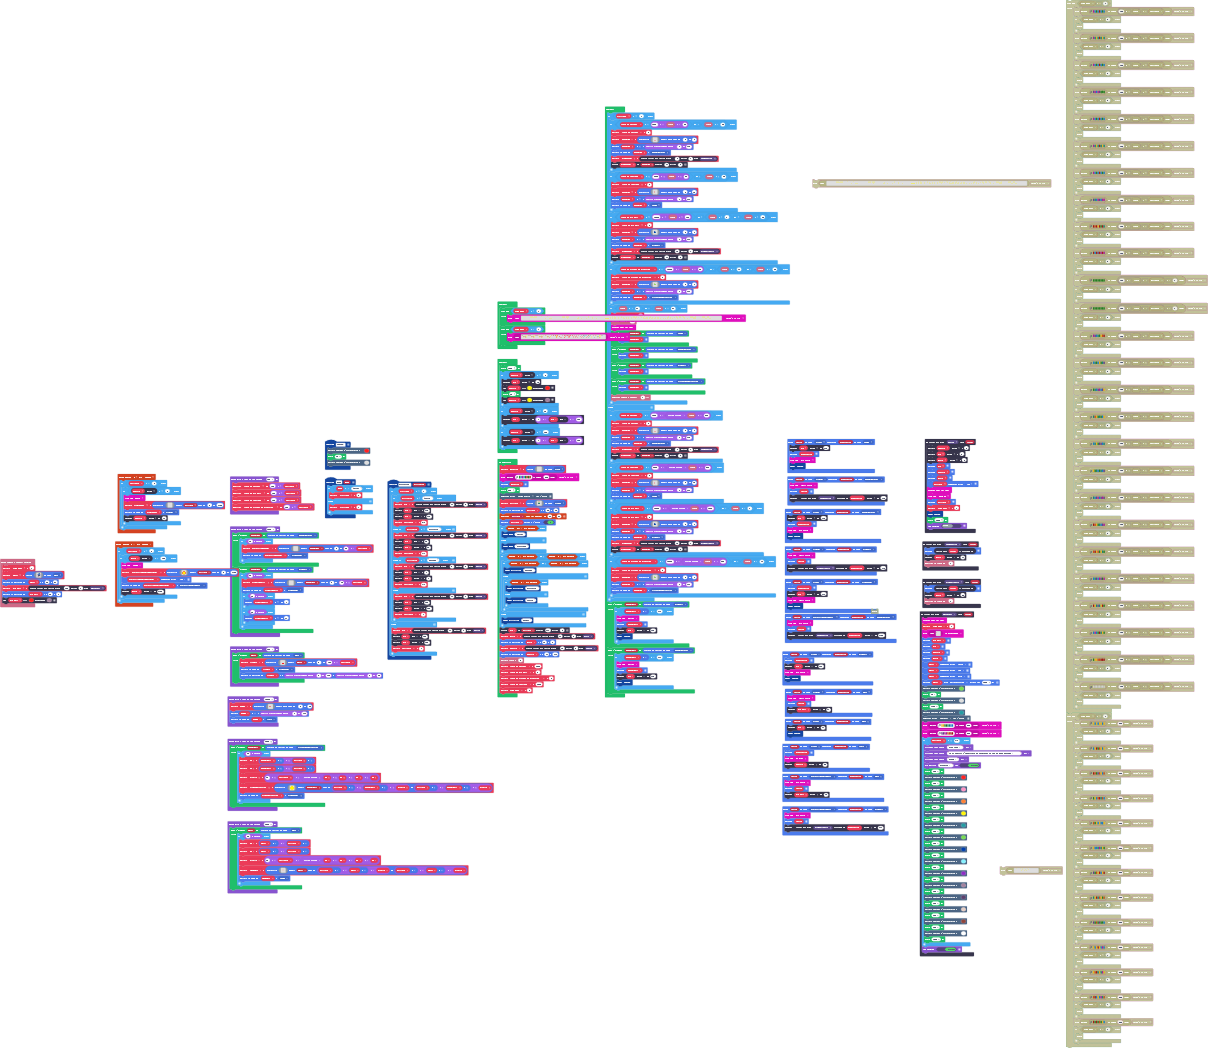
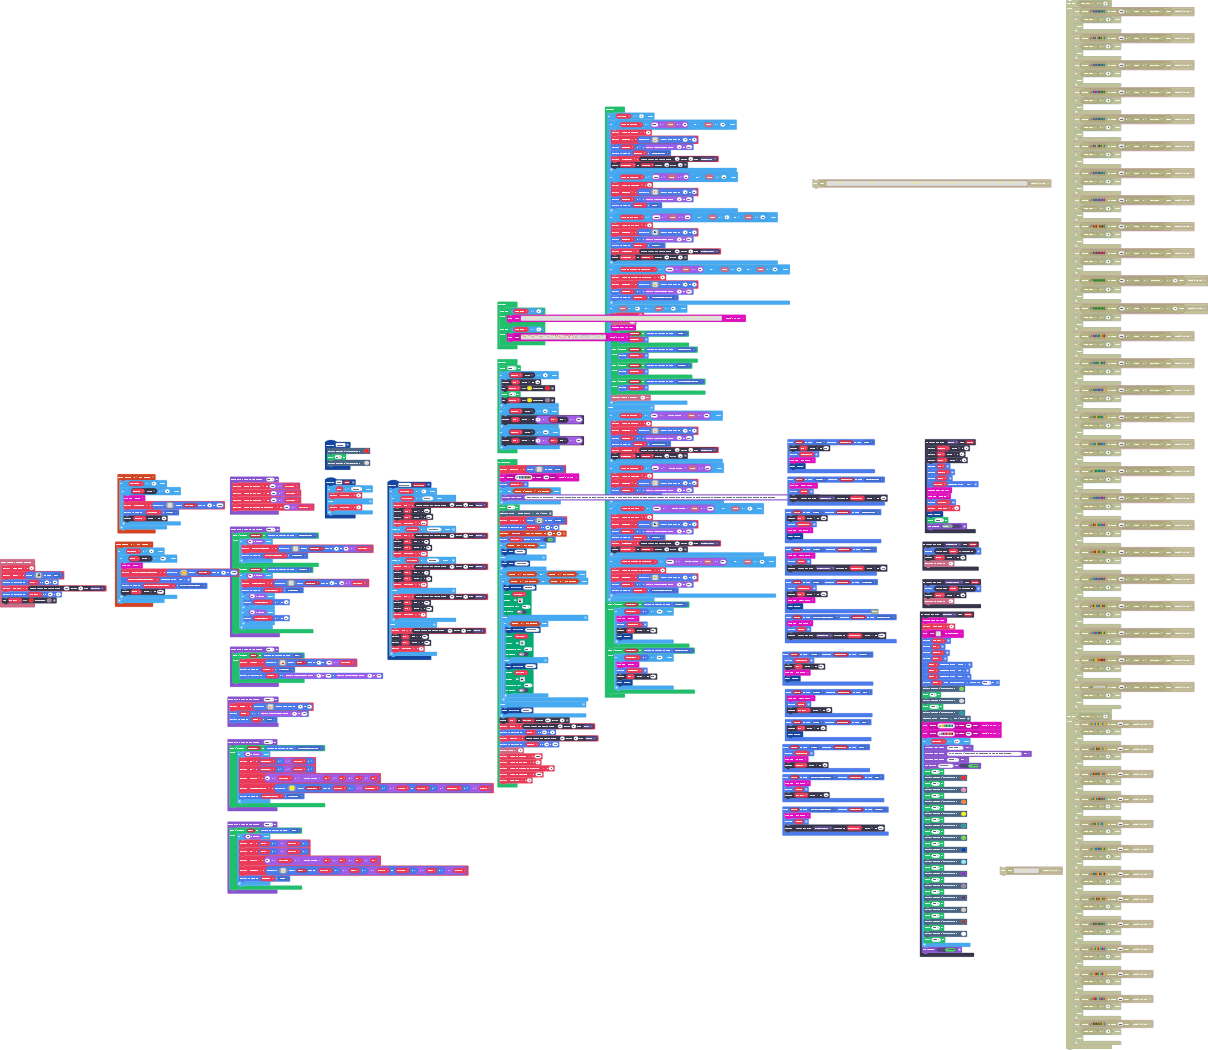
Mise à jour main.blocks, main.ts, images.g.jres, images.g.ts

Changed region(s): [[0.0, 0.1221, 0.8576, 0.916], [0.827, 0.1832, 1.0, 0.916]]

diff --git a/main.ts b/main.ts
@@ -105,12 +105,12 @@ sprites.onOverlap(SpriteKind.Player, SpriteKind.tir_ennemi, function (sprite, ot
 function Difficilté (difficulté: string) {
     if (classique == 1) {
         if (difficulté == "facile") {
-            vie = statusbars.create(12, 4, StatusBarKind.Health)
+            vie = statusbars.create(14, 4, StatusBarKind.Health)
             vie.max = 150
             vie.value = 150
             challenge = 0.8
         } else if (difficulté == "difficile") {
-            vie = statusbars.create(12, 2, StatusBarKind.Health)
+            vie = statusbars.create(10, 2, StatusBarKind.Health)
             vie.max = 50
             vie.value = 50
             challenge = 1.2
@@ -286,26 +286,12 @@ let mySprite = sprites.create(img`
     `, SpriteKind.titre)
 music.play(music.stringPlayable("G E C E G C5 G C5 ", 400), music.PlaybackMode.UntilDone)
 sprites.destroy(mySprite)
+if (!(controller.anyButton.isPressed())) {
+    game.showLongText("pour choisir la difficulté : enfoncez entrée pour vous mettre en mode facile, ne touchez à rien pour vous mettre en mode normale, appuyez sur espace pour vous mettre en mode difficile et appuyez sur entrée et espace pour vous mettre en mode extrême", DialogLayout.Full)
+}
 pause(600)
 effects.starField.startScreenEffect()
-vaisseau = sprites.create(img`
-    . . . . . . . . . . . . . . . . 
-    . . . . . . . . . . . . . . . . 
-    . . . . . 2 . . . . 2 . . . . . 
-    . . . . 2 5 2 . . 2 5 2 . . . . 
-    . . . . . 7 . . . . 7 . . . . . 
-    . . . . . 7 . . . . 7 . . . . . 
-    . . . . . 7 . . . . 7 . . . . . 
-    . . . . f 9 9 f f 9 9 f . . . . 
-    . . . . f 9 9 f f 9 9 f . . . . 
-    . . . . f 9 9 f f 9 9 f . . . . 
-    . . . . f f f f f f f f . . . . 
-    . . . . . . . . . . . . . . . . 
-    . . . . . . . . . . . . . . . . 
-    . . . . . . . . . . . . . . . . 
-    . . . . . . . . . . . . . . . . 
-    . . . . . . . . . . . . . . . . 
-    `, SpriteKind.Player)
+vaisseau = sprites.create(assets.image`vaisseau`, SpriteKind.Player)
 vaisseau.setPosition(80, 90)
 controller.moveSprite(vaisseau, 85, 85)
 vaisseau.setStayInScreen(true)
@@ -317,11 +303,80 @@ if (controller.down.isPressed()) {
 if (controller.B.isPressed() || controller.A.isPressed()) {
     if (controller.B.isPressed() && controller.A.isPressed()) {
         Difficilté("extrême")
+        animation.runImageAnimation(
+        vaisseau,
+        [img`
+            . . . . . . . . . . . . . . . . 
+            . . . . . . . . . . . . . . . . 
+            . . . . . 2 . . . . 2 . . . . . 
+            . . . . 2 9 2 . . 2 9 2 . . . . 
+            . . . . . c . . . . c . . . . . 
+            . . . . . c . . . . c . . . . . 
+            . . . . . c . . . . c . . . . . 
+            . . . . f 2 2 f f 2 2 f . . . . 
+            . . . . f 2 2 f f 2 2 f . . . . 
+            . . . . f 2 2 f f 2 2 f . . . . 
+            . . . . f f f f f f f f . . . . 
+            . . . . . . . . . . . . . . . . 
+            . . . . . . . . . . . . . . . . 
+            . . . . . . . . . . . . . . . . 
+            . . . . . . . . . . . . . . . . 
+            . . . . . . . . . . . . . . . . 
+            `],
+        500,
+        false
+        )
     } else {
         if (controller.A.isPressed()) {
             Difficilté("difficile")
+            animation.runImageAnimation(
+            vaisseau,
+            [img`
+                . . . . . . . . . . . . . . . . 
+                . . . . . . . . . . . . . . . . 
+                . . . . . 1 . . . . 1 . . . . . 
+                . . . . 1 f 1 . . 1 f 1 . . . . 
+                . . . . . 8 . . . . 8 . . . . . 
+                . . . . . 8 . . . . 8 . . . . . 
+                . . . . . 8 . . . . 8 . . . . . 
+                . . . . f 1 1 f f 1 1 f . . . . 
+                . . . . f 1 1 f f 1 1 f . . . . 
+                . . . . f 1 1 f f 1 1 f . . . . 
+                . . . . f f f f f f f f . . . . 
+                . . . . . . . . . . . . . . . . 
+                . . . . . . . . . . . . . . . . 
+                . . . . . . . . . . . . . . . . 
+                . . . . . . . . . . . . . . . . 
+                . . . . . . . . . . . . . . . . 
+                `],
+            500,
+            false
+            )
         } else {
             Difficilté("facile")
+            animation.runImageAnimation(
+            vaisseau,
+            [img`
+                . . . . . . . . . . . . . . . . 
+                . . . . . . . . . . . . . . . . 
+                . . . . . 8 . . . . 8 . . . . . 
+                . . . . 8 2 8 . . 8 2 8 . . . . 
+                . . . . . 9 . . . . 9 . . . . . 
+                . . . . . 9 . . . . 9 . . . . . 
+                . . . . . 9 . . . . 9 . . . . . 
+                . . . . f a a f f a a f . . . . 
+                . . . . f a a f f a a f . . . . 
+                . . . . f a a f f a a f . . . . 
+                . . . . f f f f f f f f . . . . 
+                . . . . . . . . . . . . . . . . 
+                . . . . . . . . . . . . . . . . 
+                . . . . . . . . . . . . . . . . 
+                . . . . . . . . . . . . . . . . 
+                . . . . . . . . . . . . . . . . 
+                `],
+            500,
+            false
+            )
         }
     }
 } else {

diff --git a/images.g.ts b/images.g.ts
@@ -136,6 +136,25 @@ namespace myImages {
 ..........................................2....................2...........
 ...........................................................................
 `;
+            case "image1":
+            case "vaisseau":return img`
+. . . . . . . . . . . . . . . . 
+. . . . . . . . . . . . . . . . 
+. . . . . 2 . . . . 2 . . . . . 
+. . . . 2 5 2 . . 2 5 2 . . . . 
+. . . . . 7 . . . . 7 . . . . . 
+. . . . . 7 . . . . 7 . . . . . 
+. . . . . 7 . . . . 7 . . . . . 
+. . . . f 9 9 f f 9 9 f . . . . 
+. . . . f 9 9 f f 9 9 f . . . . 
+. . . . f 9 9 f f 9 9 f . . . . 
+. . . . f f f f f f f f . . . . 
+. . . . . . . . . . . . . . . . 
+. . . . . . . . . . . . . . . . 
+. . . . . . . . . . . . . . . . 
+. . . . . . . . . . . . . . . . 
+. . . . . . . . . . . . . . . . 
+`;
         }
         return null;
     })
